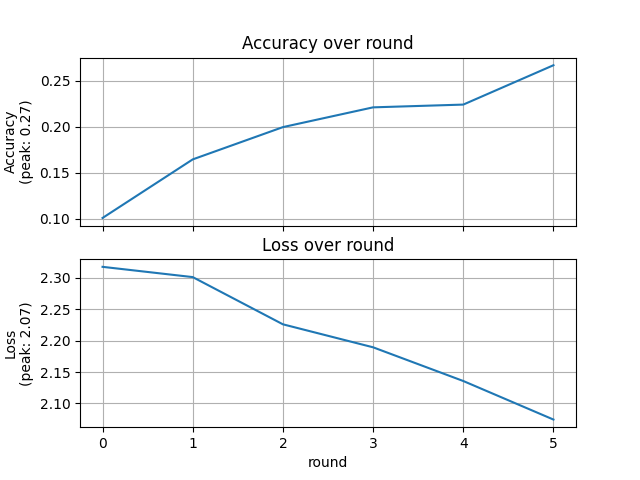
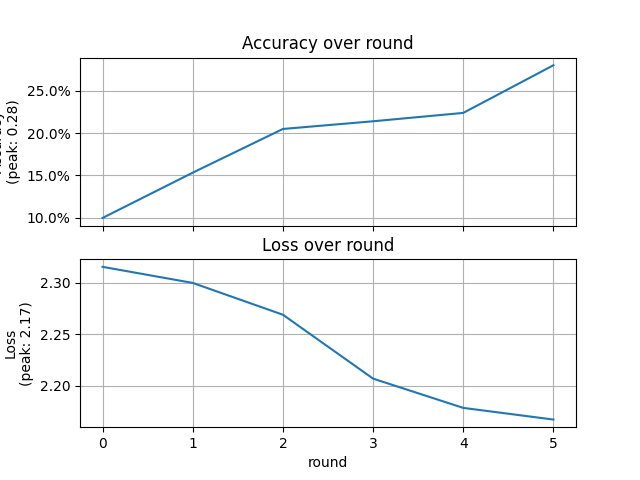
feat: confusion matrix

diff --git a/src/Plotter.py b/src/Plotter.py
@@ -1,8 +1,8 @@
 import matplotlib.pyplot as plt
 import matplotlib.ticker as ticker
+import seaborn as sns
 import numpy as np
 import os
-
 
 import globalVariable as gv
 from src import logger
@@ -14,32 +14,37 @@ class Plotter:
         self.poisoning = poisoning
         self.dataset_name = dataset_name
 
-        self.fig, (self.accuracy_chart, self.loss_chart) = plt.subplots(nrows=2, ncols=1, sharex=True)
-        plt.gca().yaxis.set_major_formatter(ticker.FormatStrFormatter('%1.2f'))
-        self.accuracy_chart.grid(True)
-        self.loss_chart.grid(True)
+    def line_chart_plot(self, accuracy_data, loss_data):
+        line_chart_fig, (accuracy_chart, loss_chart) = plt.subplots(nrows=2, ncols=1, sharex=True)
+        accuracy_chart.grid(True)
+        loss_chart.grid(True)
+        accuracy_chart.yaxis.set_major_formatter(ticker.PercentFormatter(1.0))
+        loss_chart.yaxis.set_major_formatter(ticker.StrMethodFormatter('{x:.2f}'))
 
-        self.x_axis = np.arange(gv.ROUNDS_NUM + 1)
-        self.loss_chart.set_xlabel('round')
+        x_axis = np.arange(gv.ROUNDS_NUM + 1)
+        loss_chart.set_xlabel('round')
 
-        self.accuracy_chart.set_title('Accuracy over round')
-        self.accuracy_chart.set_ylabel("Accuracy")
+        accuracy_chart.set_title('Accuracy over round')
+        accuracy_chart.set_ylabel(f"Accuracy\n(peak: {round(accuracy_data[len(accuracy_data) - 1], 2)})")
 
-        self.loss_chart.set_title('Loss over round')
-        self.loss_chart.set_ylabel("Loss")
-        
-        self.accuracy_data = []
-        self.loss_data = []
+        loss_chart.set_title('Loss over round')
+        loss_chart.set_ylabel(f"Loss\n(peak: {round(loss_data[len(loss_data) - 1], 2)})")
 
-    def plot(self):
-        self.accuracy_chart.set_ylabel(f"{self.accuracy_chart.get_ylabel()}\n(peak: {round(self.accuracy_data[len(self.accuracy_data) - 1], 2)})")
-        self.loss_chart.set_ylabel(f"{self.loss_chart.get_ylabel()}\n(peak: {round(self.loss_data[len(self.loss_data) - 1], 2)})")
+        accuracy_chart.plot(accuracy_data)
+        loss_chart.plot(x_axis, loss_data)
+        self.set_save_fig_path('accuracy_and_loss')
 
-        self.accuracy_chart.plot(self.accuracy_data)
-        self.loss_chart.plot(self.x_axis, self.loss_data)
-        
+    def confusion_matrix_chart_plot(self, data):
+        confusion_matrix_fig, confusion_matrix_chart = plt.subplots()
+        confusion_matrix_chart.set_xlabel("correct class")
+        confusion_matrix_chart.set_ylabel("predicted class")
+        sns.heatmap(data, annot=True, cmap="Blues_r", linewidths=2, square=True)
+        self.set_save_fig_path('confusionMatrix')
+
+    def set_save_fig_path(self, chart_name):
         output_plot_dir = f"outputPlot/{'whitPoisoning' if self.poisoning else 'whitoutPoisoning'}/"
         print(f'output dir is : {output_plot_dir}')
         logger.debug(f'output dir is : {output_plot_dir}')
-        output_plot_dir = os.path.join(output_plot_dir, f"{self.dataset_name}_accuracy_and_loss_{'poisoned' if self.poisoning else ''}.png")
+        output_plot_dir = os.path.join(output_plot_dir,
+                                       f"{self.dataset_name}_{chart_name}_{'poisoned' if self.poisoning else ''}.png")
         plt.savefig(output_plot_dir)

diff --git a/src/Server.py b/src/Server.py
@@ -3,6 +3,8 @@ import flwr as fl
 from FlowerClient import get_client_fn
 from flwr.simulation.ray_transport.utils import enable_tf_gpu_growth
 from flwr.common import Metrics
+import numpy as np
+from sklearn.metrics import confusion_matrix
 
 import Plotter
 import globalVariable as gv
@@ -20,6 +22,9 @@ class Server:
             evaluate_fn=self.get_eval_fn(),
             evaluate_metrics_aggregation_fn=Server.weighted_average
         )
+        self.accuracy_data = []
+        self.loss_data = []
+        
         self.plotter = Plotter.Plotter(self.model_conf.dataset_name, model_conf.poisoning)
 
     def start_simulation(self):
@@ -57,10 +62,31 @@ class Server:
             model = model_conf.get_model()
             model.set_weights(parameters)  # Update model with the latest parameters
             loss, accuracy = model.evaluate(model_conf.x_test, model_conf.y_test)
-            self.plotter.accuracy_data.append(accuracy)
-            self.plotter.loss_data.append(loss)
+            self.accuracy_data.append(accuracy)
+            self.loss_data.append(loss)
             if server_round == gv.ROUNDS_NUM:
-                self.plotter.plot()
+                self.plotter.line_chart_plot(self.accuracy_data, self.loss_data)
+                
+
+                y_predict = model.predict(self.model_conf.x_test)
+                y_predict = np.argmax(y_predict, axis=1)
+                y_test =np.argmax(self.model_conf.y_test,axis=1)
+                result = confusion_matrix(y_test,y_predict)
+                self.plotter.confusion_matrix_chart_plot(result)
+                # # Get the predicted labels from the model (predicted_classes)
+                # predicted_classes = np.argmax(model.predict(self.model_conf.x_test), axis=1)
+
+                # # Get the true labels (true_classes)
+                # true_classes = np.argmax(self.model_conf.y_test, axis=1)
+
+                # # Create the confusion matrix
+                # confusion_matrix = np.zeros((self,model_conf.classes_number, self,model_conf.classes_number))
+                # for i, true_label in enumerate(true_classes):
+                #     predicted_label = predicted_classes[i]
+                #     confusion_matrix[true_label, predicted_label] += 1
+                    
+                # print(confusion_matrix)
+
             # print(f"After round {server_round}, Global accuracy = {accuracy}")
             # results = {"round":server_round,"loss": loss, "accuracy": accuracy}
             # results_list.append(results)

diff --git a/src/FlowerClient.py b/src/FlowerClient.py
@@ -43,16 +43,16 @@ class FlowerClient(fl.client.NumPyClient):
             item = self.add_perturbation(item)
 
 
-    def add_perturbation(self,img, noise_type="random", scale=0.8):
-
+    def add_perturbation(self,img):
+        scale = 0.8
         rows, cols, channels = img.shape
         # Create noise array with the same shape as the image
         noise = np.zeros_like(img)
 
-        if noise_type == "random":
-            noise += np.random.rand(rows, cols, channels) * scale
-        elif noise_type == "gaussian":
-            noise += np.random.normal(0, scale, size=img.shape)
+        #if noise_type == "random":
+        noise += np.random.rand(rows, cols, channels) * scale
+        #elif noise_type == "gaussian":
+        #noise += np.random.normal(0, scale, size=img.shape)
 
         # Clip noise values to be within image value range (usually 0-255)
         perturbed_img = np.clip(img + noise, 0, 255)
